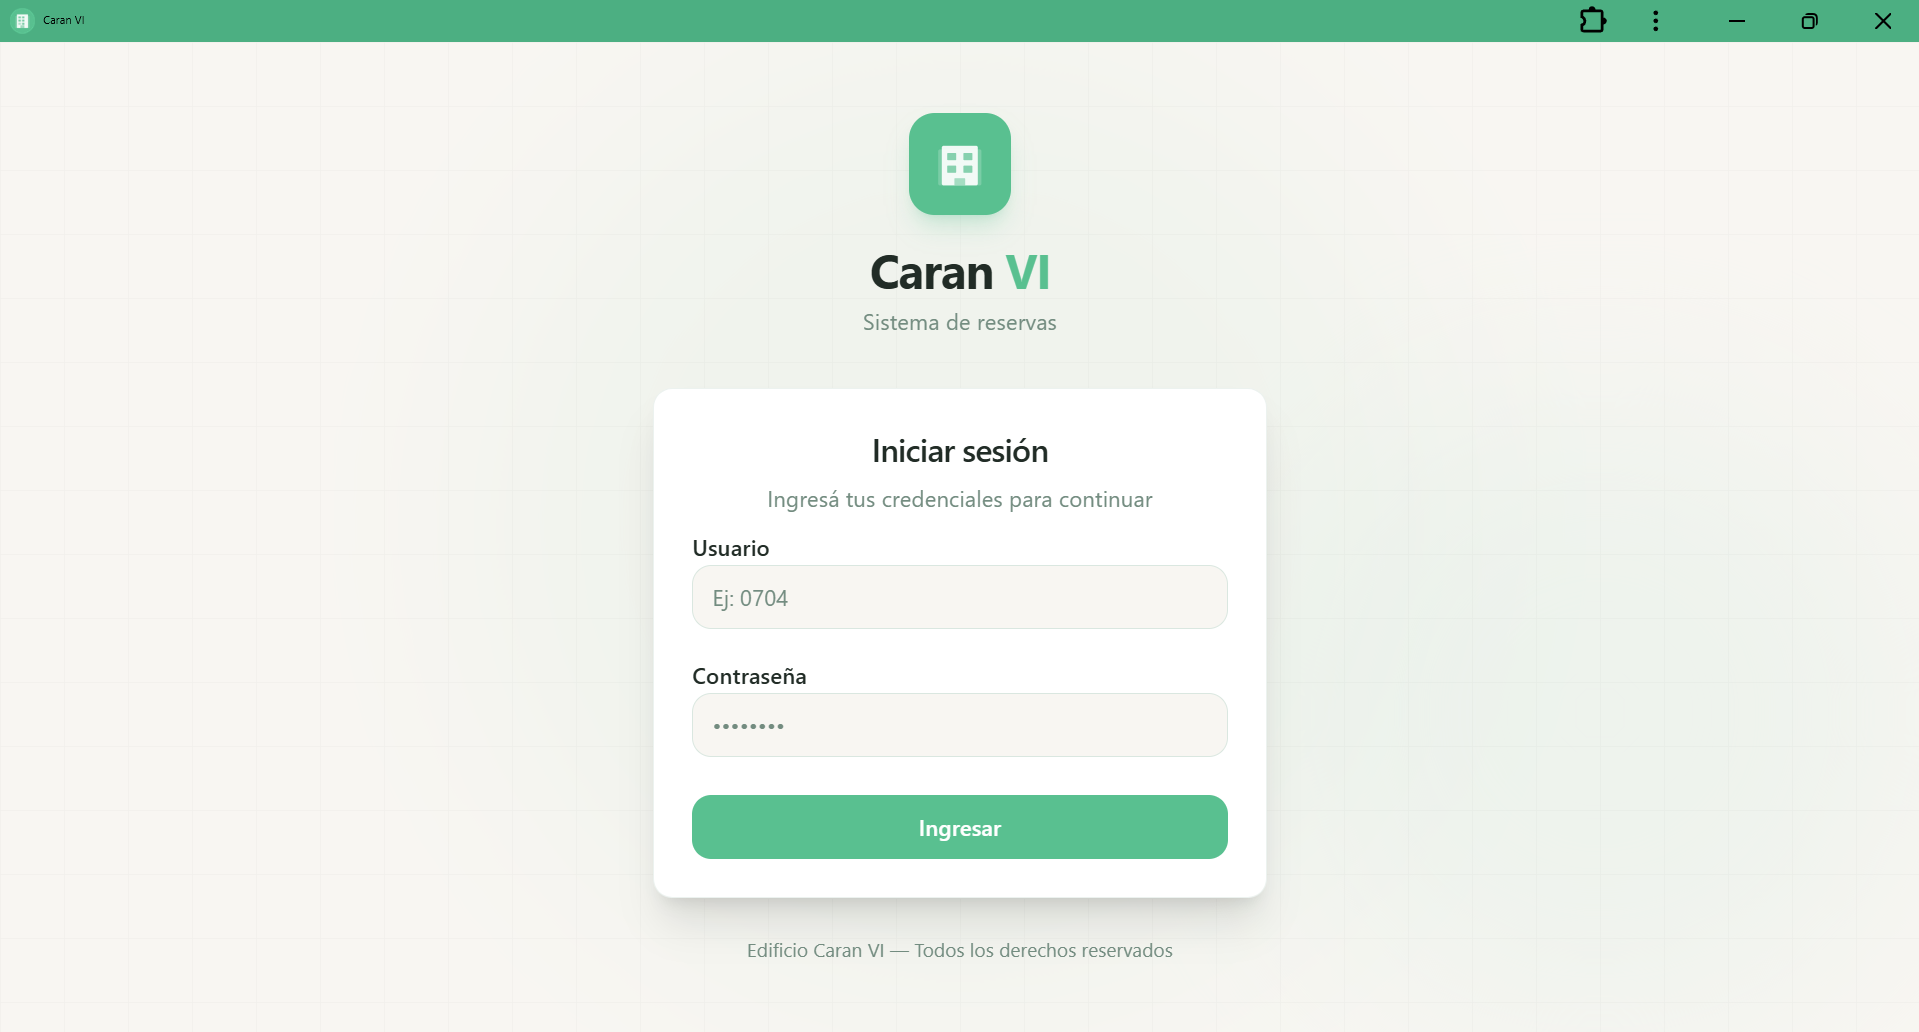
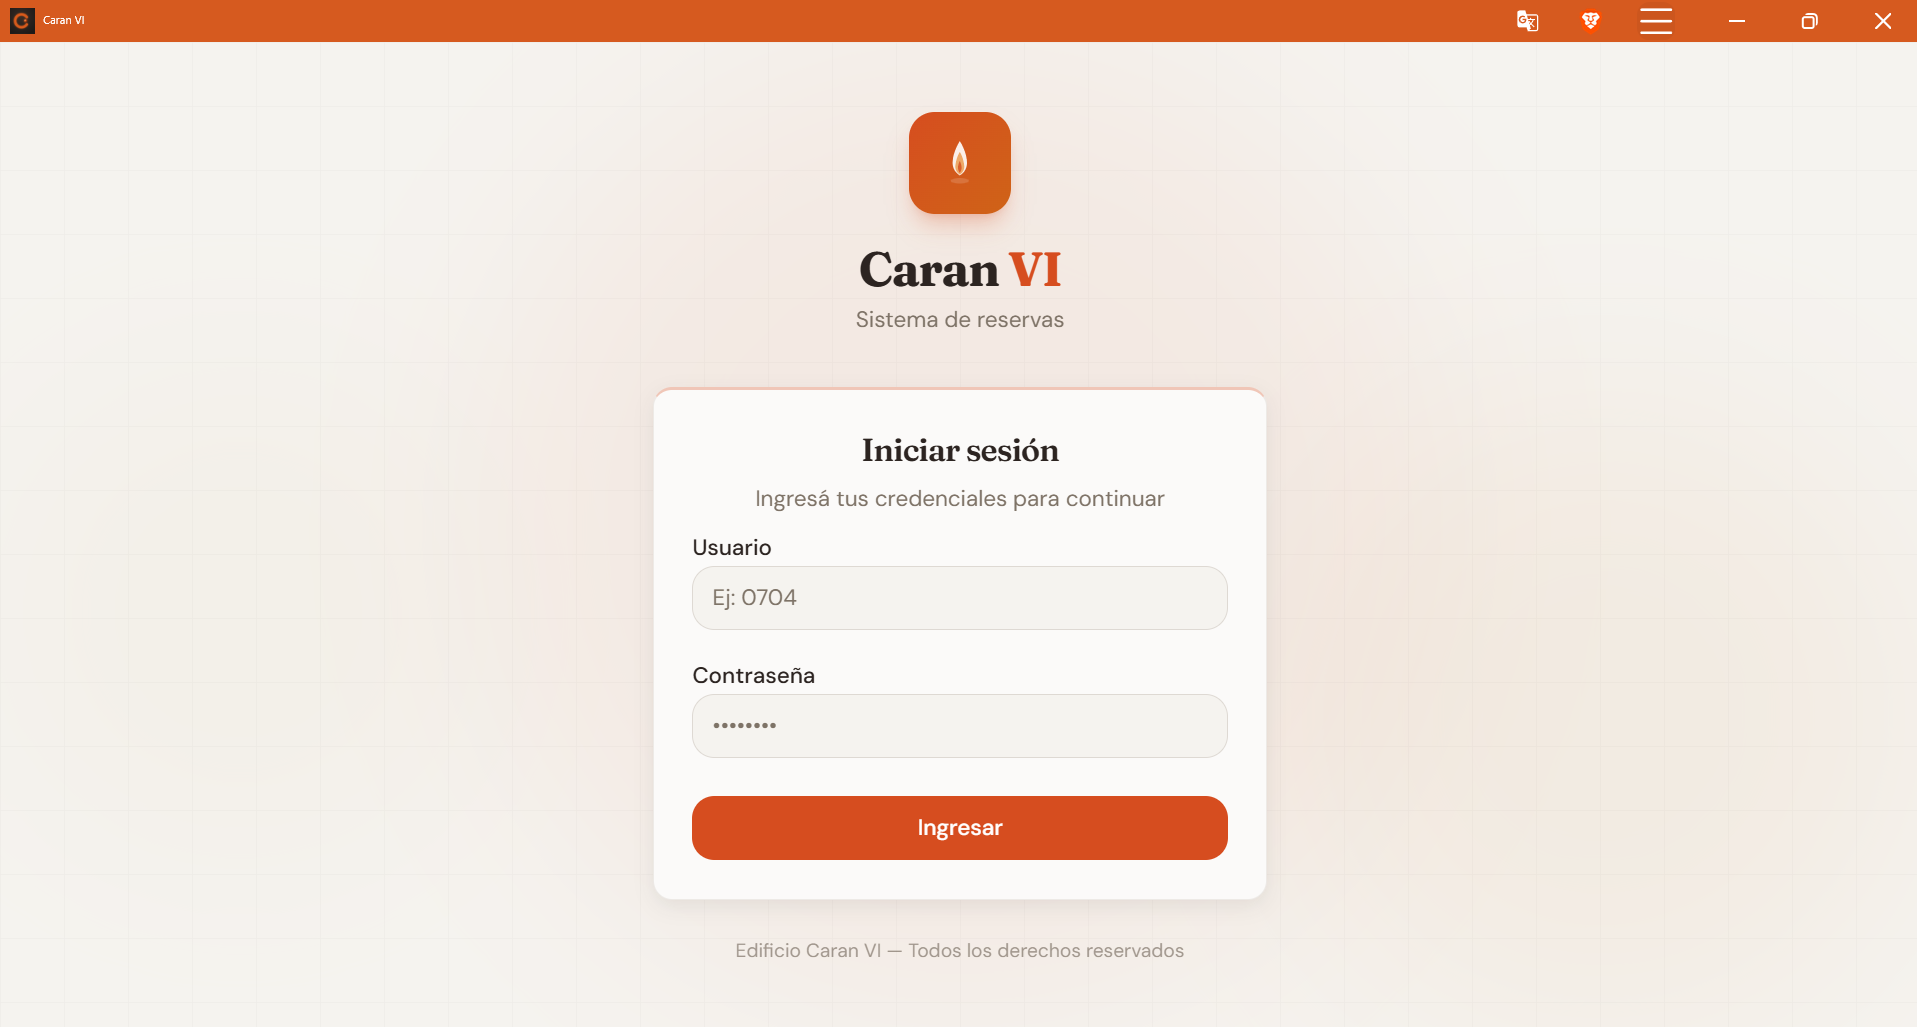
pwa media

diff --git a/src/components/booking-calendar.tsx b/src/components/booking-calendar.tsx
@@ -1,8 +1,16 @@
 "use client";
 import { useState, useEffect } from "react";
 import {
-  add, eachDayOfInterval, endOfMonth, format, getDay,
-  isSameDay, isSameMonth, isToday, parse, startOfToday,
+  add,
+  eachDayOfInterval,
+  endOfMonth,
+  format,
+  getDay,
+  isSameDay,
+  isSameMonth,
+  isToday,
+  parse,
+  startOfToday,
 } from "date-fns";
 import { es } from "date-fns/locale";
 import { ChevronLeft, ChevronRight } from "lucide-react";
@@ -12,8 +20,13 @@ import { ShiftModal } from "./shift-modal";
 import type { BookingWithUser } from "@/types";
 
 const COL_START: Record<number, string> = {
-  0: "", 1: "col-start-2", 2: "col-start-3", 3: "col-start-4",
-  4: "col-start-5", 5: "col-start-6", 6: "col-start-7",
+  0: "",
+  1: "col-start-2",
+  2: "col-start-3",
+  3: "col-start-4",
+  4: "col-start-5",
+  5: "col-start-6",
+  6: "col-start-7",
 };
 
 interface Props {
@@ -23,20 +36,19 @@ interface Props {
   onRefresh: () => Promise<void>;
 }
 
-export function BookingCalendar({ userId, isAdmin, bookings, onRefresh }: Props) {
-  const [today, setToday] = useState<Date>(() => startOfToday());
-  const [currentMonth, setCurrentMonth] = useState(() => format(startOfToday(), "MMM-yyyy"));
+export function BookingCalendar({ userId, bookings, onRefresh }: Props) {
+  const [today] = useState<Date>(() => startOfToday());
+  const [currentMonth, setCurrentMonth] = useState(() =>
+    format(startOfToday(), "MMM-yyyy"),
+  );
   const [selectedDay, setSelectedDay] = useState<Date | null>(null);
   const [modalOpen, setModalOpen] = useState(false);
 
-  useEffect(() => {
-    const t = startOfToday();
-    setToday(t);
-    setCurrentMonth(format(t, "MMM-yyyy"));
-  }, []);
-
   const firstDay = parse(currentMonth, "MMM-yyyy", new Date());
-  const days = eachDayOfInterval({ start: firstDay, end: endOfMonth(firstDay) });
+  const days = eachDayOfInterval({
+    start: firstDay,
+    end: endOfMonth(firstDay),
+  });
 
   const bookingsForDay = (day: Date) =>
     bookings.filter((b) => isSameDay(day, new Date(b.bookingDate)));
@@ -51,17 +63,29 @@ export function BookingCalendar({ userId, isAdmin, bookings, onRefresh }: Props)
   }
 
   return (
-    <div className="space-y-6">
-      <div className="rounded-xl border bg-card p-3 sm:p-6 shadow-warm-sm">
+    <div className="space-y-6 h-full">
+      <div className="rounded-xl border bg-card p-3 h-full shadow-warm-sm ">
         {/* Month nav */}
         <div className="flex items-center justify-between mb-4 sm:mb-6">
-          <Button variant="ghost" size="icon" onClick={() => setCurrentMonth(format(add(firstDay, { months: -1 }), "MMM-yyyy"))}>
+          <Button
+            variant="ghost"
+            size="icon"
+            onClick={() =>
+              setCurrentMonth(format(add(firstDay, { months: -1 }), "MMM-yyyy"))
+            }
+          >
             <ChevronLeft className="h-4 w-4" />
           </Button>
           <h2 className="font-display font-semibold text-base sm:text-lg capitalize">
             {format(firstDay, "MMMM yyyy", { locale: es })}
           </h2>
-          <Button variant="ghost" size="icon" onClick={() => setCurrentMonth(format(add(firstDay, { months: 1 }), "MMM-yyyy"))}>
+          <Button
+            variant="ghost"
+            size="icon"
+            onClick={() =>
+              setCurrentMonth(format(add(firstDay, { months: 1 }), "MMM-yyyy"))
+            }
+          >
             <ChevronRight className="h-4 w-4" />
           </Button>
         </div>
@@ -85,14 +109,18 @@ export function BookingCalendar({ userId, isAdmin, bookings, onRefresh }: Props)
             return (
               <div
                 key={day.toISOString()}
-                className={cn(idx === 0 && COL_START[getDay(day)], "flex flex-col items-center py-0.5")}
+                className={cn(
+                  idx === 0 && COL_START[getDay(day)],
+                  "flex flex-col items-center py-0.5",
+                )}
               >
                 <button
                   disabled={full || past}
                   onClick={() => openModal(day)}
                   className={cn(
                     "h-8 w-8 sm:h-9 sm:w-9 rounded-full flex flex-col items-center justify-center text-xs sm:text-sm font-medium transition-colors relative",
-                    isToday(day) && "bg-primary text-primary-foreground animate-ember-glow rounded-full",
+                    isToday(day) &&
+                      "bg-primary text-primary-foreground animate-ember-glow rounded-full",
                     !isToday(day) && !past && !full && "hover:bg-secondary",
                     past && "text-muted-foreground/40 cursor-not-allowed",
                     full && !past && "cursor-not-allowed",
@@ -102,8 +130,12 @@ export function BookingCalendar({ userId, isAdmin, bookings, onRefresh }: Props)
                   {format(day, "d")}
                 </button>
                 <div className="flex gap-0.5 mt-0.5 h-1.5">
-                  {hasMorning && <span className="h-1.5 w-1.5 rounded-full bg-accent" />}
-                  {hasEvening && <span className="h-1.5 w-1.5 rounded-full bg-night" />}
+                  {hasMorning && (
+                    <span className="h-1.5 w-1.5 rounded-full bg-accent" />
+                  )}
+                  {hasEvening && (
+                    <span className="h-1.5 w-1.5 rounded-full bg-night" />
+                  )}
                 </div>
               </div>
             );
@@ -111,8 +143,12 @@ export function BookingCalendar({ userId, isAdmin, bookings, onRefresh }: Props)
         </div>
 
         <div className="flex items-center gap-4 mt-3 sm:mt-4 text-xs text-muted-foreground justify-center">
-          <span className="flex items-center gap-1.5"><span className="h-2 w-2 rounded-full bg-accent" /> Mediodía</span>
-          <span className="flex items-center gap-1.5"><span className="h-2 w-2 rounded-full bg-night" /> Noche</span>
+          <span className="flex items-center gap-1.5">
+            <span className="h-2 w-2 rounded-full bg-accent" /> Mediodía
+          </span>
+          <span className="flex items-center gap-1.5">
+            <span className="h-2 w-2 rounded-full bg-night" /> Noche
+          </span>
         </div>
       </div>
 

diff --git a/src/components/navbar.tsx b/src/components/navbar.tsx
@@ -19,23 +19,39 @@ export function Navbar() {
 
   return (
     <header className="border-b border-border bg-card">
-      <div className="max-w-5xl mx-auto px-4 sm:px-6 h-16 flex items-center justify-between">
+      <div className="max-w-5xl mx-auto px-4 sm:px-6 h-12 flex items-center justify-between">
         <div className="flex items-center gap-3">
           <svg viewBox="0 0 24 24" fill="none" className="h-6 w-6">
-            <path d="M12 2C8 7 4 10 4 14.5C4 18.64 7.58 22 12 22C16.42 22 20 18.64 20 14.5C20 10 16 7 12 2Z" fill="hsl(15 75% 48%)" opacity="0.9"/>
-            <path d="M12 6C10 9 8 11 8 13.5C8 16.54 9.79 18 12 18C14.21 18 16 16.54 16 13.5C16 11 14 9 12 6Z" fill="hsl(30 90% 70%)" opacity="0.8"/>
+            <path
+              d="M12 2C8 7 4 10 4 14.5C4 18.64 7.58 22 12 22C16.42 22 20 18.64 20 14.5C20 10 16 7 12 2Z"
+              fill="hsl(15 75% 48%)"
+              opacity="0.9"
+            />
+            <path
+              d="M12 6C10 9 8 11 8 13.5C8 16.54 9.79 18 12 18C14.21 18 16 16.54 16 13.5C16 11 14 9 12 6Z"
+              fill="hsl(30 90% 70%)"
+              opacity="0.8"
+            />
           </svg>
-          <span className="font-display font-semibold text-foreground">Caran <span className="text-primary">VI</span></span>
+          <span className="font-display font-semibold text-foreground">
+            Caran <span className="text-primary">VI</span>
+          </span>
         </div>
         {user && (
           <div className="flex items-center gap-3">
             <div className="hidden sm:flex items-center gap-2">
-              <span className="text-sm text-muted-foreground">{user.username}</span>
-              <Badge variant="secondary">P{user.floor} · D{user.flat}</Badge>
+              <span className="text-sm text-muted-foreground">
+                {user.username}
+              </span>
+              <Badge variant="secondary">
+                P{user.floor} · D{user.flat}
+              </Badge>
               {user.role === "ADMIN" && <Badge variant="default">Admin</Badge>}
             </div>
             <div className="flex sm:hidden items-center">
-              <Badge variant="secondary">{user.floor}/{user.flat}</Badge>
+              <Badge variant="secondary">
+                {user.floor}/{user.flat}
+              </Badge>
             </div>
             {user.role === "ADMIN" && (
               <Button variant="ghost" size="icon" asChild title="Panel admin">
@@ -44,7 +60,12 @@ export function Navbar() {
                 </Link>
               </Button>
             )}
-            <Button variant="ghost" size="icon" onClick={handleLogout} title="Cerrar sesión">
+            <Button
+              variant="ghost"
+              size="icon"
+              onClick={handleLogout}
+              title="Cerrar sesión"
+            >
               <LogOut className="h-4 w-4" />
             </Button>
           </div>

diff --git a/src/components/bookings-section.tsx b/src/components/bookings-section.tsx
@@ -16,7 +16,9 @@ export function BookingsSection({ userId, isAdmin, initialBookings }: Props) {
   const normalize = (list: any[]) =>
     list.map((b) => ({ ...b, bookingDate: parseBookingDate(b.bookingDate) }));
 
-  const [bookings, setBookings] = useState<BookingWithUser[]>(() => normalize(initialBookings));
+  const [bookings, setBookings] = useState<BookingWithUser[]>(() =>
+    normalize(initialBookings),
+  );
 
   const refresh = useCallback(async () => {
     const res = await fetch("/api/bookings");
@@ -39,30 +41,28 @@ export function BookingsSection({ userId, isAdmin, initialBookings }: Props) {
         onRefresh={refresh}
       />
 
-      <div>
-        <div className="rounded-xl border bg-card p-4 shadow-warm-sm space-y-4">
-          <BookingList
-            bookings={myBookings}
-            currentUserId={userId}
-            isAdmin={isAdmin}
-            title="Mis reservas"
-            emptyMessage="No tenés reservas próximas"
-            onDeleted={handleDeleted}
-          />
-          {otherBookings.length > 0 && (
-            <>
-              <Separator />
-              <BookingList
-                bookings={otherBookings}
-                currentUserId={userId}
-                isAdmin={isAdmin}
-                title="Otras reservas"
-                emptyMessage="No hay otras reservas"
-                onDeleted={handleDeleted}
-              />
-            </>
-          )}
-        </div>
+      <div className="rounded-xl border bg-card p-4 shadow-warm-sm space-y-4 h-full">
+        <BookingList
+          bookings={myBookings}
+          currentUserId={userId}
+          isAdmin={isAdmin}
+          title="Mis reservas"
+          emptyMessage="No tenés reservas próximas"
+          onDeleted={handleDeleted}
+        />
+        {otherBookings.length > 0 && (
+          <>
+            <Separator />
+            <BookingList
+              bookings={otherBookings}
+              currentUserId={userId}
+              isAdmin={isAdmin}
+              title="Otras reservas"
+              emptyMessage="No hay otras reservas"
+              onDeleted={handleDeleted}
+            />
+          </>
+        )}
       </div>
     </div>
   );

diff --git a/src/app/manifest.ts b/src/app/manifest.ts
@@ -27,13 +27,16 @@ export default function manifest(): MetadataRoute.Manifest {
       },
     ],
     icons: [
-      // "any" = icono plano estándar (Chrome, Edge, Android por defecto).
+      { src: "/icons/icon-48.png", sizes: "48x48", type: "image/png", purpose: "any" },
+      { src: "/icons/icon-72.png", sizes: "72x72", type: "image/png", purpose: "any" },
+      { src: "/icons/icon-96.png", sizes: "96x96", type: "image/png", purpose: "any" },
+      { src: "/icons/icon-144.png", sizes: "144x144", type: "image/png", purpose: "any" },
+      { src: "/icons/icon-152.png", sizes: "152x152", type: "image/png", purpose: "any" },
+      { src: "/icons/icon-167.png", sizes: "167x167", type: "image/png", purpose: "any" },
+      { src: "/icons/icon-180.png", sizes: "180x180", type: "image/png", purpose: "any" },
       { src: "/icons/icon-192.png", sizes: "192x192", type: "image/png", purpose: "any" },
       { src: "/icons/icon-512.png", sizes: "512x512", type: "image/png", purpose: "any" },
-      // "maskable" = Android adaptive icon (con safe zone interna al icono).
-      // Idealmente debería ser un archivo distinto con padding, pero si no existe
-      // uno dedicado, usar el mismo es válido y no rompe nada.
-      { src: "/icons/icon-512.png", sizes: "512x512", type: "image/png", purpose: "maskable" },
+      { src: "/icons/maskable-512.png", sizes: "512x512", type: "image/png", purpose: "maskable" },
     ],
   };
 }

diff --git a/src/components/booking-list.tsx b/src/components/booking-list.tsx
@@ -11,14 +11,23 @@ interface Props {
   onDeleted: (id: number) => void;
 }
 
-export function BookingList({ bookings, currentUserId, isAdmin, title, emptyMessage, onDeleted }: Props) {
+export function BookingList({
+  bookings,
+  currentUserId,
+  isAdmin,
+  title,
+  emptyMessage,
+  onDeleted,
+}: Props) {
   return (
     <div className="space-y-3">
       <h2 className="font-semibold text-lg text-foreground">{title}</h2>
       {bookings.length === 0 ? (
-        <p className="text-sm text-muted-foreground py-4 text-center">{emptyMessage}</p>
+        <p className="text-sm text-muted-foreground py-4 text-center">
+          {emptyMessage}
+        </p>
       ) : (
-        <div className="max-h-[360px] overflow-y-auto space-y-3 pr-1">
+        <div className="max-h-90 overflow-y-auto space-y-3 pr-1">
           {bookings.map((booking) => (
             <BookingCard
               key={booking.id}

diff --git a/src/app/page.tsx b/src/app/page.tsx
@@ -17,10 +17,14 @@ export default async function HomePage() {
   return (
     <div className="min-h-screen bg-background">
       <Navbar />
-      <main className="max-w-5xl mx-auto px-4 sm:px-6 py-4 sm:py-8">
-        <div className="mb-4 sm:mb-6">
-          <h1 className="text-2xl font-bold text-foreground">Reservas de turnos</h1>
-          <p className="text-sm text-muted-foreground mt-1">Seleccioná un día para reservar tu turno</p>
+      <main className="max-w-5xl mx-auto px-4 sm:px-6 sm:py-2 py-4">
+        <div className="mb-4 sm:mb-2">
+          <h1 className="text-2xl font-bold text-foreground">
+            Reservas de turnos
+          </h1>
+          <p className="text-sm text-muted-foreground mt-1">
+            Seleccioná un día para reservar tu turno
+          </p>
         </div>
         <BookingsSection
           userId={session.user.id}

diff --git a/src/app/layout.tsx b/src/app/layout.tsx
@@ -25,8 +25,16 @@ export const metadata: Metadata = {
     title: "Caran VI",
   },
   icons: {
-    icon: "/favicon.svg",
-    apple: "/icons/icon-192.png",
+    icon: [
+      { url: "/favicon.svg", type: "image/svg+xml" },
+      { url: "/icons/icon-192.png", sizes: "192x192", type: "image/png" },
+      { url: "/icons/icon-512.png", sizes: "512x512", type: "image/png" },
+    ],
+    apple: [
+      { url: "/icons/icon-180.png", sizes: "180x180", type: "image/png" },
+      { url: "/icons/icon-167.png", sizes: "167x167", type: "image/png" },
+      { url: "/icons/icon-152.png", sizes: "152x152", type: "image/png" },
+    ],
   },
 };
 

diff --git a/src/lib/prisma.ts b/src/lib/prisma.ts
@@ -16,7 +16,10 @@ function parseDbUrl(url: string) {
 
 function createClient(): PrismaClient {
   return new PrismaClient({
-    adapter: new PrismaMariaDb(parseDbUrl(process.env.DATABASE_URL!)),
+    adapter: new PrismaMariaDb({
+      ...parseDbUrl(process.env.DATABASE_URL!),
+      ssl: { rejectUnauthorized: false },
+    }),
     log: process.env.NODE_ENV === "development" ? ["error"] : [],
   });
 }
